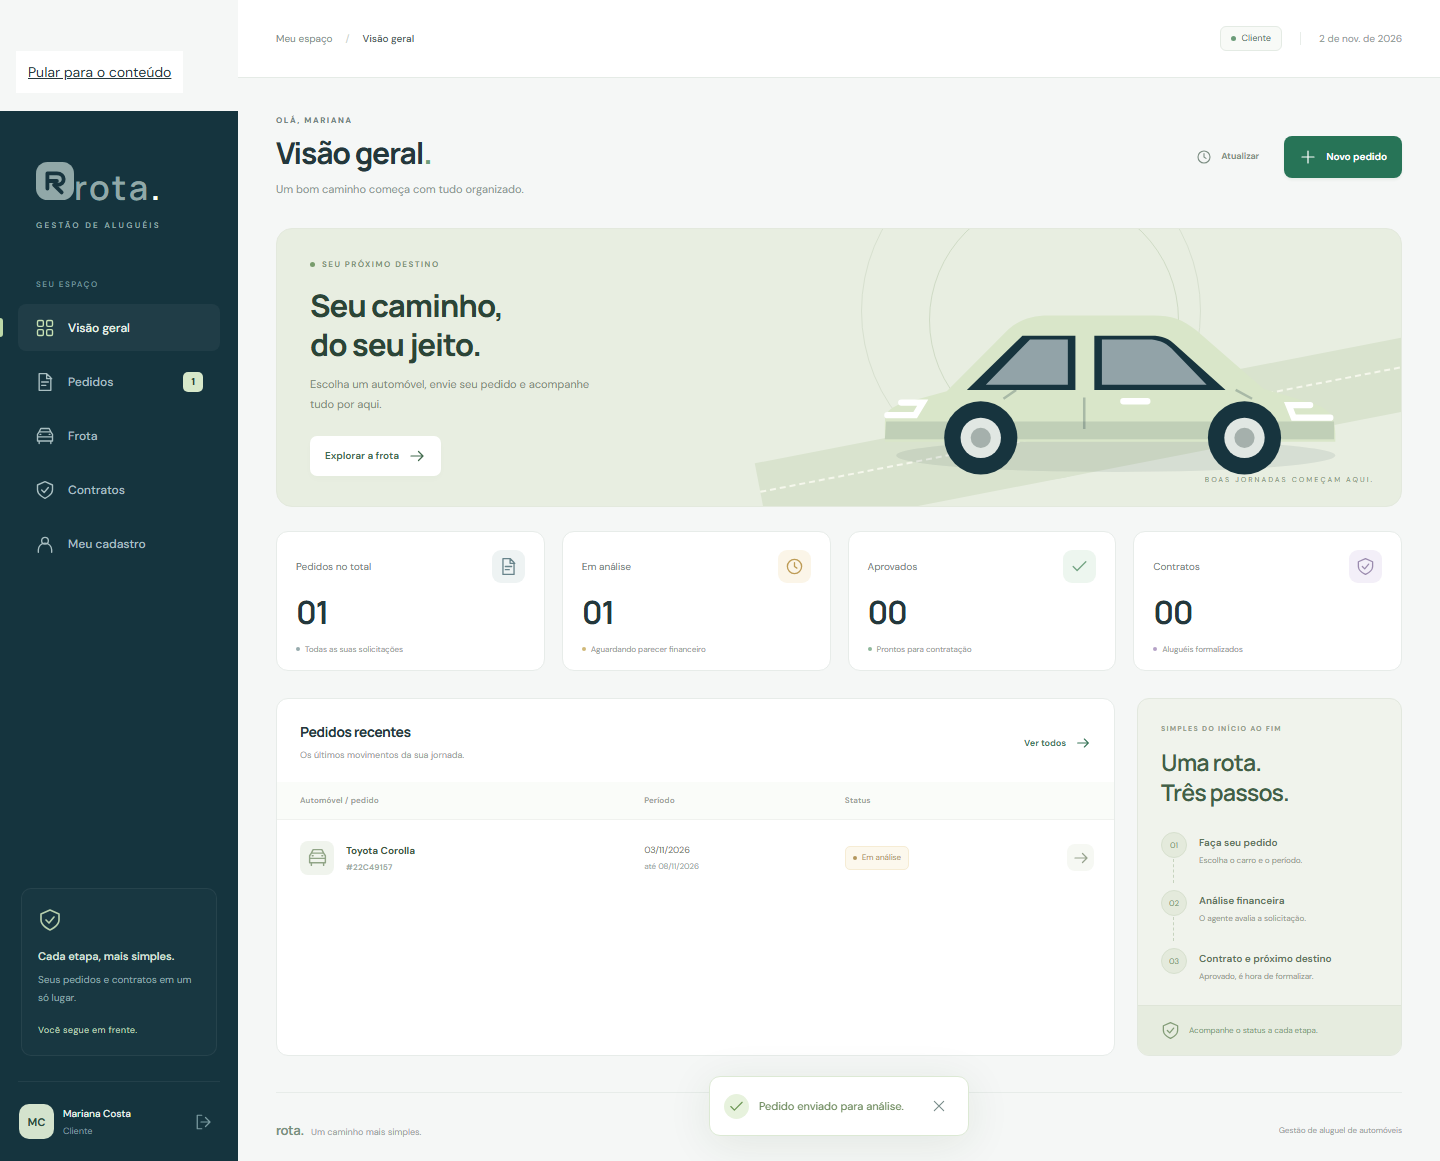
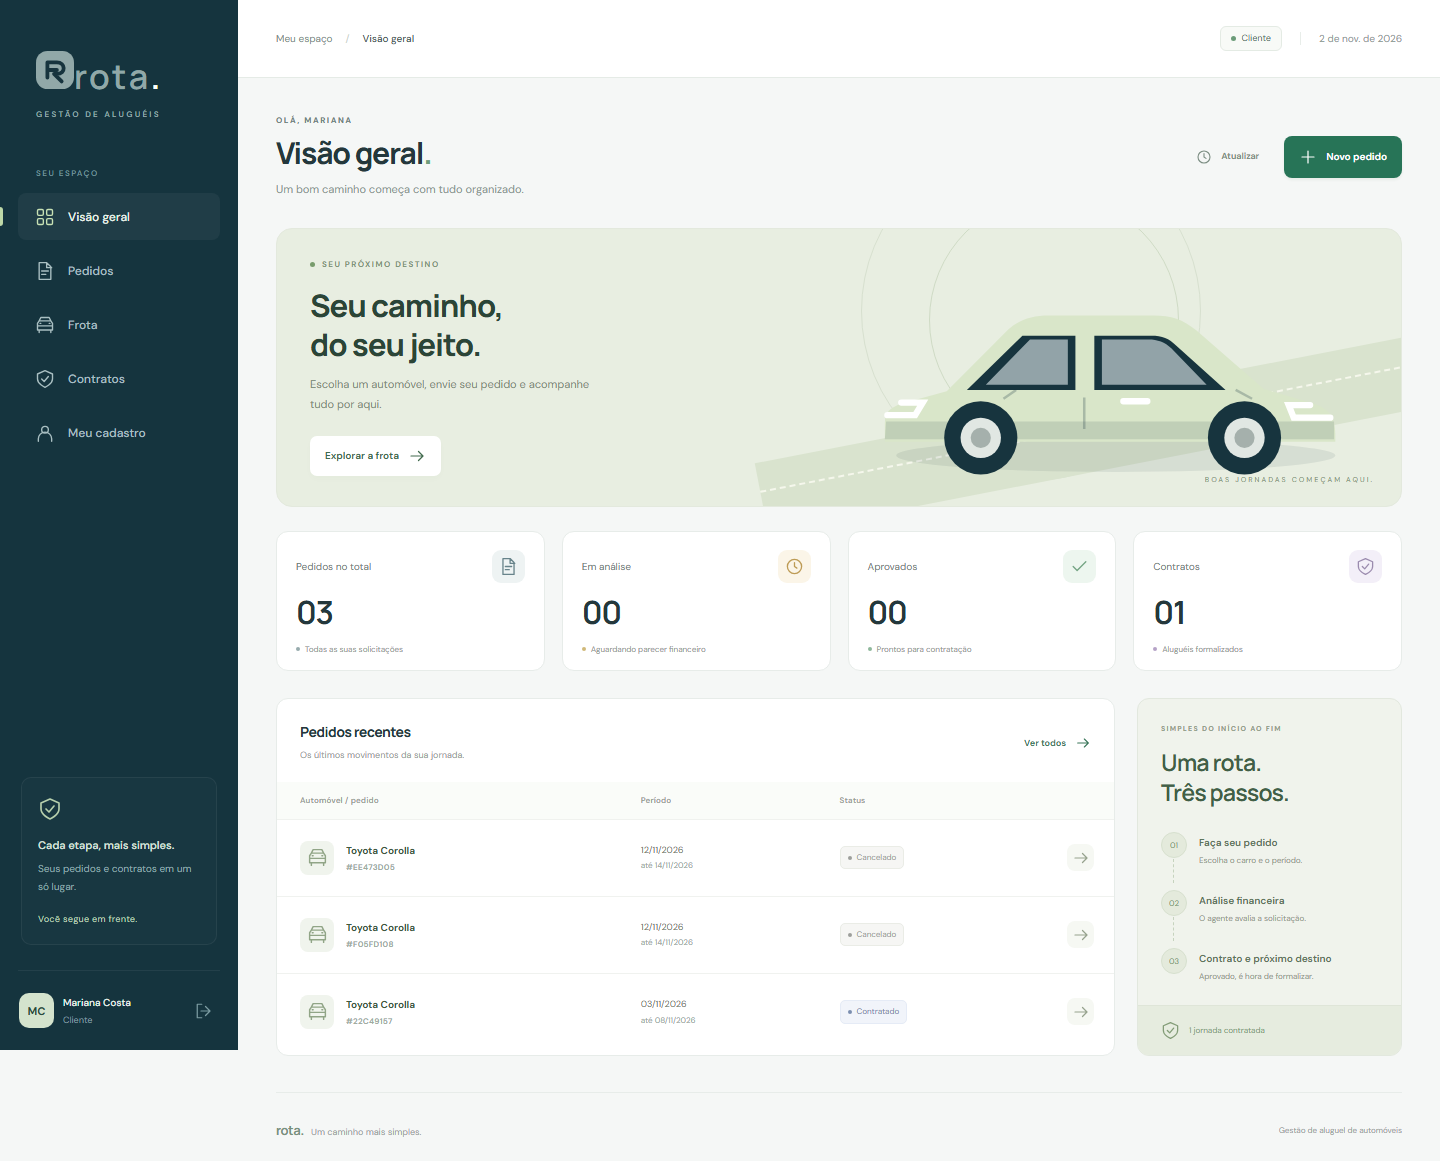
Ajusta layout para celular

diff --git a/frontend/src/components.jsx b/frontend/src/components.jsx
@@ -212,7 +212,14 @@ export function Modal({ title, description, onClose, children, wide = false }) {
     dialog.showModal();
     return () => {
       dialog.close();
-      previous?.focus();
+      const destination =
+        previous instanceof HTMLElement &&
+        previous.isConnected &&
+        previous !== document.body &&
+        !previous.closest('dialog')
+          ? previous
+          : document.getElementById('main-content');
+      destination?.focus({ preventScroll: true });
     };
   }, []);
   return (

diff --git a/frontend/src/styles.css b/frontend/src/styles.css
@@ -1142,6 +1142,7 @@ main#main-content {
   white-space: nowrap;
 }
 .table-scroll {
+  position: relative;
   overflow-x: auto;
   max-width: 100%;
   scrollbar-width: thin;

diff --git a/README.md b/README.md
@@ -224,9 +224,11 @@ As capturas abaixo mostram a aplicação conectada à API Java em um ambiente is
 
 | Login | Painel do cliente |
 | --- | --- |
-| ![Tela de login](docs/images/login.png) | ![Painel do cliente com pedido em análise](docs/images/dashboard.png) |
+| ![Tela de login](docs/images/login.png) | ![Painel do cliente com pedidos e contrato](docs/images/dashboard.png) |
 | Pedidos do agente | Contrato com crédito |
 | ![Pedidos e status de contratação](docs/images/pedidos.png) | ![Contrato com propriedade e crédito do banco](docs/images/contrato.png) |
+
+Veja também a [interface em uma tela de 320 px](docs/images/mobile.png).
 
 ## Testes
 
@@ -252,6 +254,8 @@ npm.cmd run build
 ```
 
 O build verifica o empacotamento da interface. O [roteiro de apresentação](docs/ROTEIRO-APRESENTACAO.md) também lista cenários de validação manual de autorização, cancelamento, dados obrigatórios e limite de rendimentos. Nenhuma porcentagem de cobertura ou validação de um Supabase externo é presumida nesta documentação.
+
+A verificação em Chromium também confirmou cadastro de banco e cliente, cadastro de automóvel, criação e edição de pedido, cancelamento, parecer financeiro e execução de contrato com crédito, usando a API real em ambiente isolado de testes. As cinco páginas do cliente foram verificadas em larguras de **320, 425, 768 e 1440 px**, sem rolagem horizontal no documento e sem erros JavaScript. Tabelas extensas mantêm rolagem dentro do próprio componente.
 
 ## Documentações utilizadas
 
